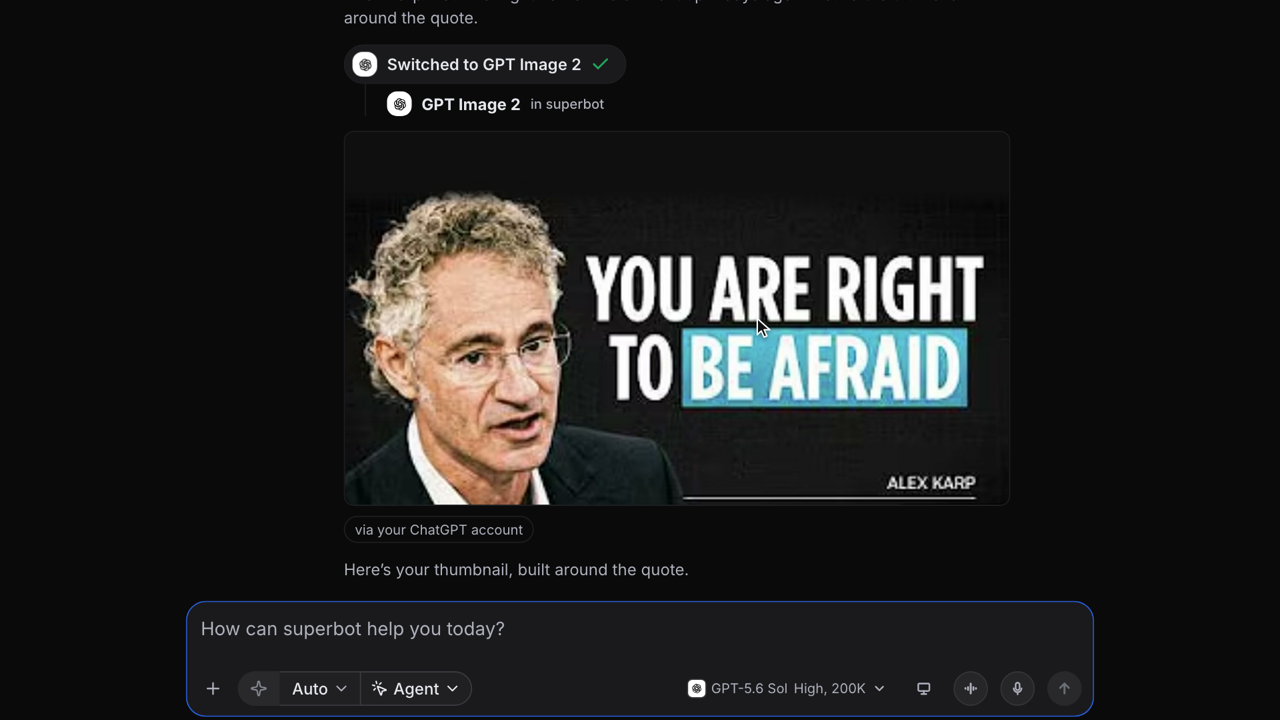
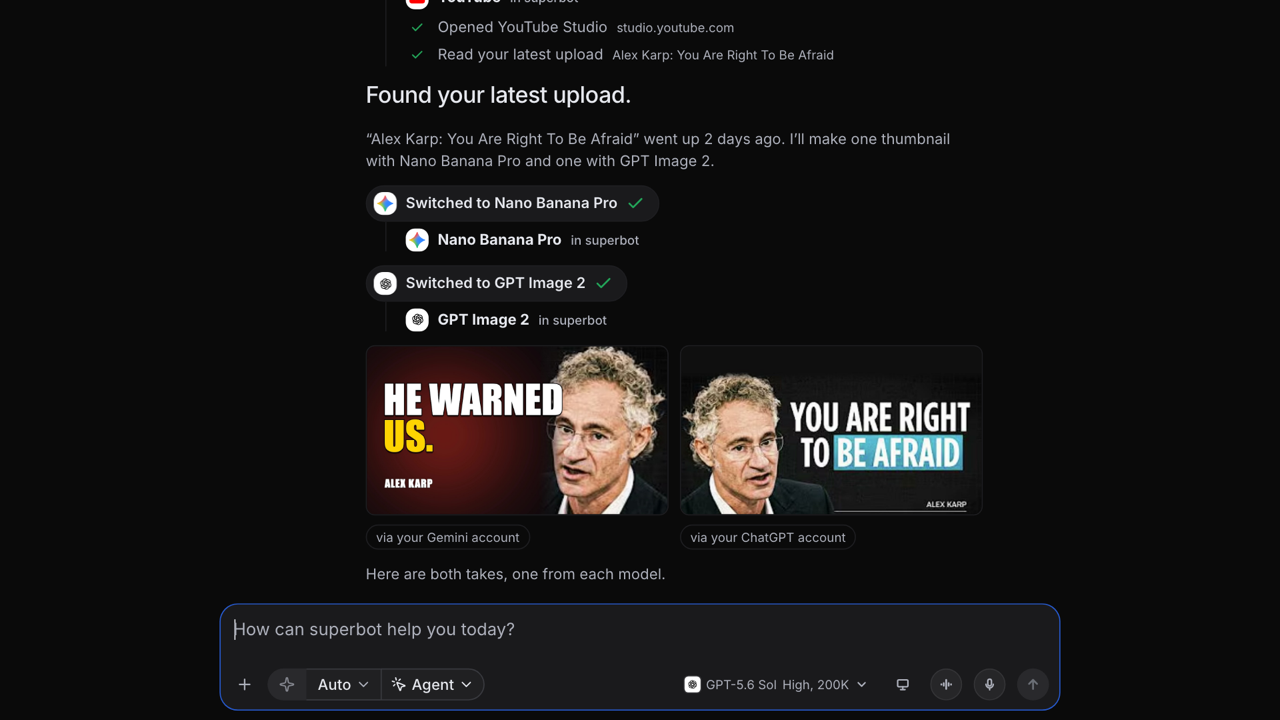
yt-thumbnail-superbot-aecdec41: ask for a Nano Banana Pro and a GPT Image 2 thumbnail

Changed region(s): [[0.1562, 0.1833, 0.8438, 0.8861], [0.1562, 0.9167, 0.8438, 1.0], [0.25, 0.0, 0.6562, 0.1528]]

diff --git a/animations/yt-thumbnail-superbot-aecdec41/index.html b/animations/yt-thumbnail-superbot-aecdec41/index.html
@@ -7,7 +7,7 @@
 <link rel="preload" href="assets/fonts/Inter-Regular.ttf" as="font" type="font/ttf" crossorigin>
 <link rel="preload" href="assets/fonts/Inter-SemiBold.ttf" as="font" type="font/ttf" crossorigin>
 <link rel="stylesheet" href="assets/sb-mark-live.css">
-<link rel="stylesheet" href="ad.aecdec41.css?v=12">
+<link rel="stylesheet" href="ad.aecdec41.css?v=13">
 <script src="assets/sb-mark-live.js"></script>
 </head>
 <body>
@@ -56,18 +56,38 @@
         <p class="body" data-in="body1" data-say="body1" data-a="body1" data-b="body1End"></p>
 
         <div class="switch" data-in="sw2" data-done="sw2Done">
+          <span class="switch-pill"><span class="tile tile-site"><img src="assets/gemini-logo.svg" alt=""></span><span class="run shim">Switching to Nano Banana Pro</span><span class="fin">Switched to Nano Banana Pro</span><span class="status"><svg class="spin" viewBox="0 0 24 24"><path d="M21 12a9 9 0 1 1-6.219-8.56"/></svg><svg class="ok" viewBox="0 0 24 24"><path d="M20 6 9 17l-5-5"/></svg></span></span>
+          <div class="nest">
+            <div class="who"><span class="tile tile-site"><img src="assets/gemini-logo.svg" alt=""></span><b>Nano Banana Pro</b><small>in superbot</small></div>
+          </div>
+        </div>
+
+        <div class="switch" data-in="sw3" data-done="sw3Done">
           <span class="switch-pill"><span class="tile tile-oa"><i class="knot"></i></span><span class="run shim">Switching to GPT Image 2</span><span class="fin">Switched to GPT Image 2</span><span class="status"><svg class="spin" viewBox="0 0 24 24"><path d="M21 12a9 9 0 1 1-6.219-8.56"/></svg><svg class="ok" viewBox="0 0 24 24"><path d="M20 6 9 17l-5-5"/></svg></span></span>
           <div class="nest">
             <div class="who"><span class="tile tile-oa"><i class="knot"></i></span><b>GPT Image 2</b><small>in superbot</small></div>
           </div>
         </div>
 
-        <div class="generating" id="gen" data-in="gen" data-out="genDone">
-          <i class="gen-band"></i>
-          <span class="gen-chip"><span class="tile tile-oa round"><i class="knot"></i></span>Creating image</span>
+        <!-- one cell per model: its Creating image frame gives way to the finished card and its provenance chip -->
+        <div class="gen-grid" id="gen" data-in="gen">
+          <div class="gen-cell">
+            <div class="generating" data-in="gen" data-out="genDone">
+              <i class="gen-band"></i>
+              <span class="gen-chip"><span class="tile tile-site round"><img src="assets/gemini-logo.svg" alt=""></span>Creating image</span>
+            </div>
+            <div class="image-card" data-in="genDone"><img src="assets/thumb-nano.jpg" alt=""></div>
+            <span class="provenance" data-in="prov">via your Gemini account</span>
+          </div>
+          <div class="gen-cell">
+            <div class="generating" data-in="gen" data-out="genDone2">
+              <i class="gen-band"></i>
+              <span class="gen-chip"><span class="tile tile-oa round"><i class="knot"></i></span>Creating image</span>
+            </div>
+            <div class="image-card" data-in="genDone2"><img src="assets/thumb-new.jpg" alt=""></div>
+            <span class="provenance" data-in="prov2">via your ChatGPT account</span>
+          </div>
         </div>
-        <div class="image-card" id="img" data-in="genDone"><img src="assets/thumb-new.jpg" alt=""></div>
-        <span class="provenance" data-in="prov">via your ChatGPT account</span>
         <p class="body" data-in="cap" data-say="caption" data-a="cap" data-b="capEnd"></p>
       </div>
     </div>
@@ -136,6 +156,6 @@
 <div id="cues" hidden><span id="cue-t"></span><div id="cue-now"></div><div id="cue-next"></div></div>
 <div id="hint">click anywhere to play</div>
 </div>
-<script type="module" src="ad.aecdec41.js?v=12"></script>
+<script type="module" src="ad.aecdec41.js?v=13"></script>
 </body>
 </html>

diff --git a/animations/yt-thumbnail-superbot-aecdec41/beats.aecdec41.js b/animations/yt-thumbnail-superbot-aecdec41/beats.aecdec41.js
@@ -2,14 +2,14 @@
 // Every beat is placed from the voiceline it illustrates (VO) or from the keystrokes that precede it, so retiming a
 // line moves everything that hangs off it. Speech is budgeted at ~155 wpm (2.6 words/s) plus a breath between lines.
 
-export const PROMPT1 = 'make a thumbnail from my latest video';
+export const PROMPT1 = 'make a thumbnail from my latest video, one with nano banana pro, one with gpt image 2';
 export const PROMPT2 = 'use this one and upload it to youtube a:b tests';
 
 // assistant prose, revealed by a character playout like the app's (it streams 55-200 cps)
 export const TEXT = {
   lead1: 'Found your latest upload.',
-  body1: '“Alex Karp: You Are Right To Be Afraid” went up 2 days ago. I’ll build the thumbnail around the quote.',
-  caption: 'Here’s your thumbnail, built around the quote.',
+  body1: '“Alex Karp: You Are Right To Be Afraid” went up 2 days ago. I’ll make one thumbnail with Nano Banana Pro and one with GPT Image 2.',
+  caption: 'Here are both takes, one from each model.',
   lead2: 'Your A/B test is live.',
   body2: 'YouTube is testing your current thumbnail against the new one and keeps whichever earns more watch time.',
 };
@@ -93,22 +93,24 @@ T.lead1End = T.lead1 + playout(TEXT.lead1);
 T.body1 = T.lead1End + 0.2;
 T.body1End = T.body1 + playout(TEXT.body1);
 
-// 4. GPT Image 2 and the wait
+// 4. both image models (Nano Banana Pro on the Google subscription, GPT Image 2 on ChatGPT) and the wait
 T.sw2 = vo4c + 5.9;
 T.sw2Done = T.sw2 + 0.9;
-const vo5 = say('5', T.sw2Done - 0.1, 'and now it is using GPT Image 2');
-T.gen = T.sw2Done + 0.45;
-const vo6 = say('6', vo5 + 3.0, 'now we wait for it to generate');
-T.genDone = vo6 + 4.4;
+T.sw3 = T.sw2 + 0.55;
+T.sw3Done = T.sw3 + 0.9;
+const vo5 = say('5', T.sw2Done - 0.1, 'and now it is using Nano Banana Pro and GPT Image 2');
+T.gen = T.sw3Done + 0.4;
+const vo6 = say('6', vo5 + 4.6, 'now we wait for it to generate');
+T.genDone = vo6 + 4.0;
+T.genDone2 = T.genDone + 0.5;
 T.prov = T.genDone + 0.3;
-T.cap = T.genDone + 0.45;
+T.prov2 = T.genDone2 + 0.3;
+T.cap = T.genDone2 + 0.45;
 T.capEnd = T.cap + playout(TEXT.caption);
 T.turn1End = T.capEnd + 0.2;
 
-// 5. the thumbnail lands; the pointer settles on it for "I like that one"
-const vo7 = say('7', T.genDone + 1.0, 'oh and there it is, awesome, I like that one');
-T.movePick = vo7 + 1.6;
-T.hoverPick = T.movePick + 0.8;
+// 5. both thumbnails land
+const vo7 = say('7', T.genDone2 + 1.0, 'oh and there they are, awesome, I like that one');
 
 // 6. the second ask
 const vo8 = say('8', vo7 + 4.0, 'and now I just ask: use this one and upload it to YouTube A:B tests');
@@ -145,7 +147,7 @@ T.fin = vo10 + 3.4;
 export const PRE = [
   "What's cool about superbot is, unlike Devin or Perplexity, superbot uses all your existing subscriptions, so you are never upcharged API pricing.",
   "I'll show you a quick example of what it does.",
-  'Say I want to make a thumbnail from my latest video. (click)',
+  'Say I want to make a thumbnail from my latest video, one with Nano Banana Pro, one with GPT Image 2. (click)',
 ];
 
 export { T, VO };

diff --git a/animations/yt-thumbnail-superbot-aecdec41/ad.aecdec41.css b/animations/yt-thumbnail-superbot-aecdec41/ad.aecdec41.css
@@ -118,6 +118,7 @@ p { margin: 0; }
 .tile-site { background: #fff; }
 .tile-site img { width: 14px; }
 .tile.round { width: 16px; height: 16px; border-radius: 50%; padding: 3px; }
+.tile.round img { width: 10px; }
 .shim { background: linear-gradient(90deg, var(--color-muted) 0%, var(--color-muted) 35%, var(--color-fg) 50%, var(--color-muted) 65%, var(--color-muted) 100%); background-size: 250% 100%; background-position: var(--sh) 0; -webkit-background-clip: text; background-clip: text; color: transparent; }
 .status { width: 16px; height: 16px; display: grid; place-items: center; }
 .spin { width: 16px; height: 16px; color: var(--color-muted); stroke-width: 2; transform: rotate(var(--rot)); }
@@ -150,10 +151,13 @@ p { margin: 0; }
 .say-caret { display: inline-block; width: 2px; height: 1em; margin-left: 1px; vertical-align: -0.12em; background: currentColor; animation: caret-pulse 1s ease-in-out infinite alternate; }
 @keyframes caret-pulse { to { opacity: 0.2; } }
 
-.generating { position: relative; width: 540px; aspect-ratio: 16 / 9; border-radius: 8px; border: 1px solid var(--color-line); background: var(--color-raised); overflow: hidden; }
+.gen-grid { display: grid; grid-template-columns: repeat(2, minmax(0, 1fr)); gap: 10px; width: 540px; }
+.gen-cell { min-width: 0; display: flex; flex-direction: column; align-items: flex-start; gap: 8px; }
+.gen-cell .provenance { margin-top: 0; }
+.generating { position: relative; width: 100%; aspect-ratio: 16 / 9; border-radius: 8px; border: 1px solid var(--color-line); background: var(--color-raised); overflow: hidden; }
 .gen-band { position: absolute; inset: 0; background: linear-gradient(90deg, transparent 30%, var(--fg-a12) 50%, transparent 70%); background-size: 250% 100%; background-position: var(--gb, 100%) 0; }
 .gen-chip { position: absolute; left: 8px; bottom: 8px; display: inline-flex; align-items: center; gap: 6px; height: 24px; padding: 0 8px 0 4px; border-radius: 9999px; border: 1px solid var(--color-line); background: var(--color-bg); font: 600 11px/16px var(--font-ui); color: var(--color-fg); }
-.image-card { width: 540px; aspect-ratio: 16 / 9; border-radius: 8px; border: 1px solid var(--color-line); background: var(--color-raised); overflow: hidden; }
+.image-card { width: 100%; aspect-ratio: 16 / 9; border-radius: 8px; border: 1px solid var(--color-line); background: var(--color-raised); overflow: hidden; }
 .image-card img { display: block; width: 100%; height: 100%; object-fit: cover; animation: img-in 0.35s ease-out; }
 @keyframes img-in { from { opacity: 0; } }
 .provenance { margin-top: -4px; padding: 2px 8px; border-radius: 9999px; border: 1px solid var(--color-line); background: var(--color-card); font: 400 11px/16px var(--font-ui); color: var(--color-muted); }

diff --git a/animations/yt-thumbnail-superbot-aecdec41/ad.aecdec41.js b/animations/yt-thumbnail-superbot-aecdec41/ad.aecdec41.js
@@ -2,7 +2,7 @@
 // push-up smoothing, which eases whatever height change layout produced. ?t=12.5 freezes a frame, ?cues=1 (or C)
 // shows the voiceline teleprompter, ?name=Adrian personalises the greeting, ?rate=0.5 slows playback.
 // Playback holds on the finished chat (the creator cuts to their own channel); the next click plays the end card.
-import { T, VO, PRE, CREATOR, KEYS1, KEYS2, PROMPT1, PROMPT2, TEXT } from './beats.aecdec41.js?v=12';
+import { T, VO, PRE, CREATOR, KEYS1, KEYS2, PROMPT1, PROMPT2, TEXT } from './beats.aecdec41.js?v=13';
 
 const q = new URLSearchParams(location.search);
 const $ = (s) => document.querySelector(s);
